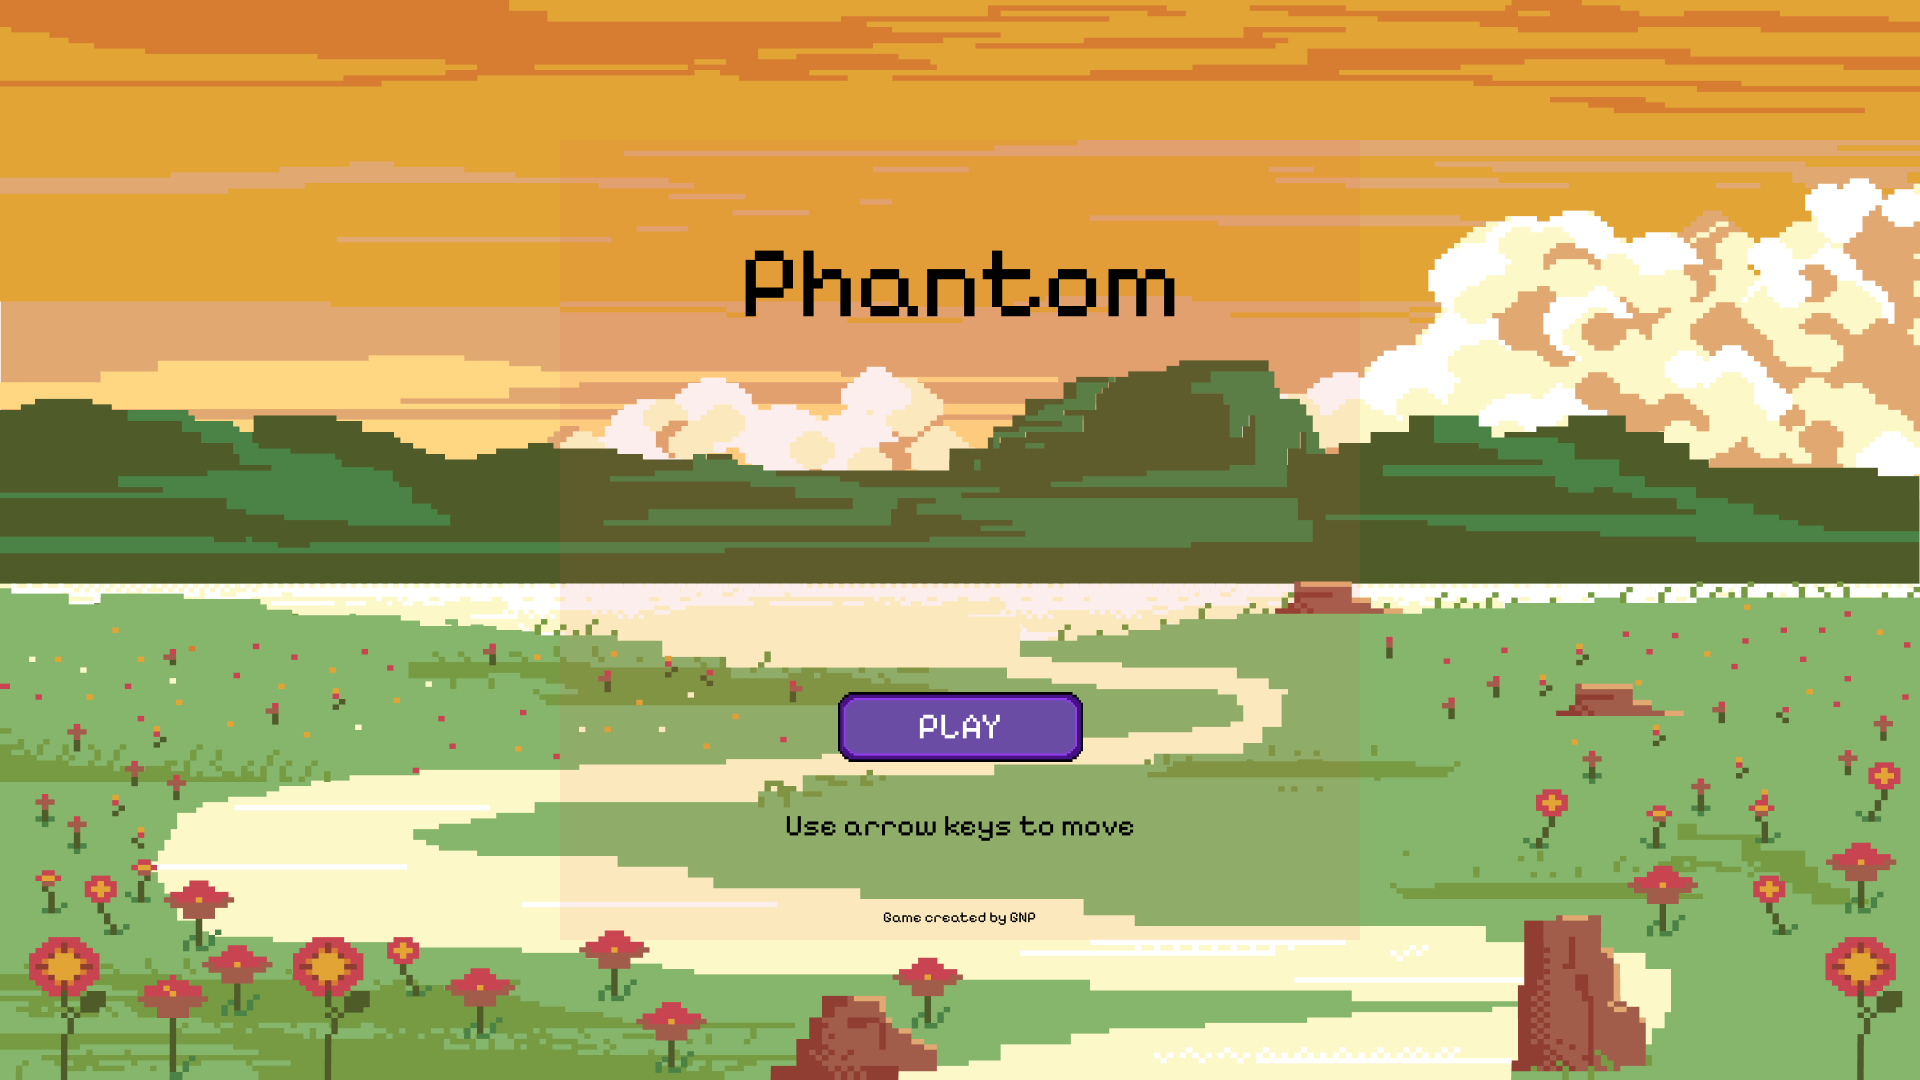
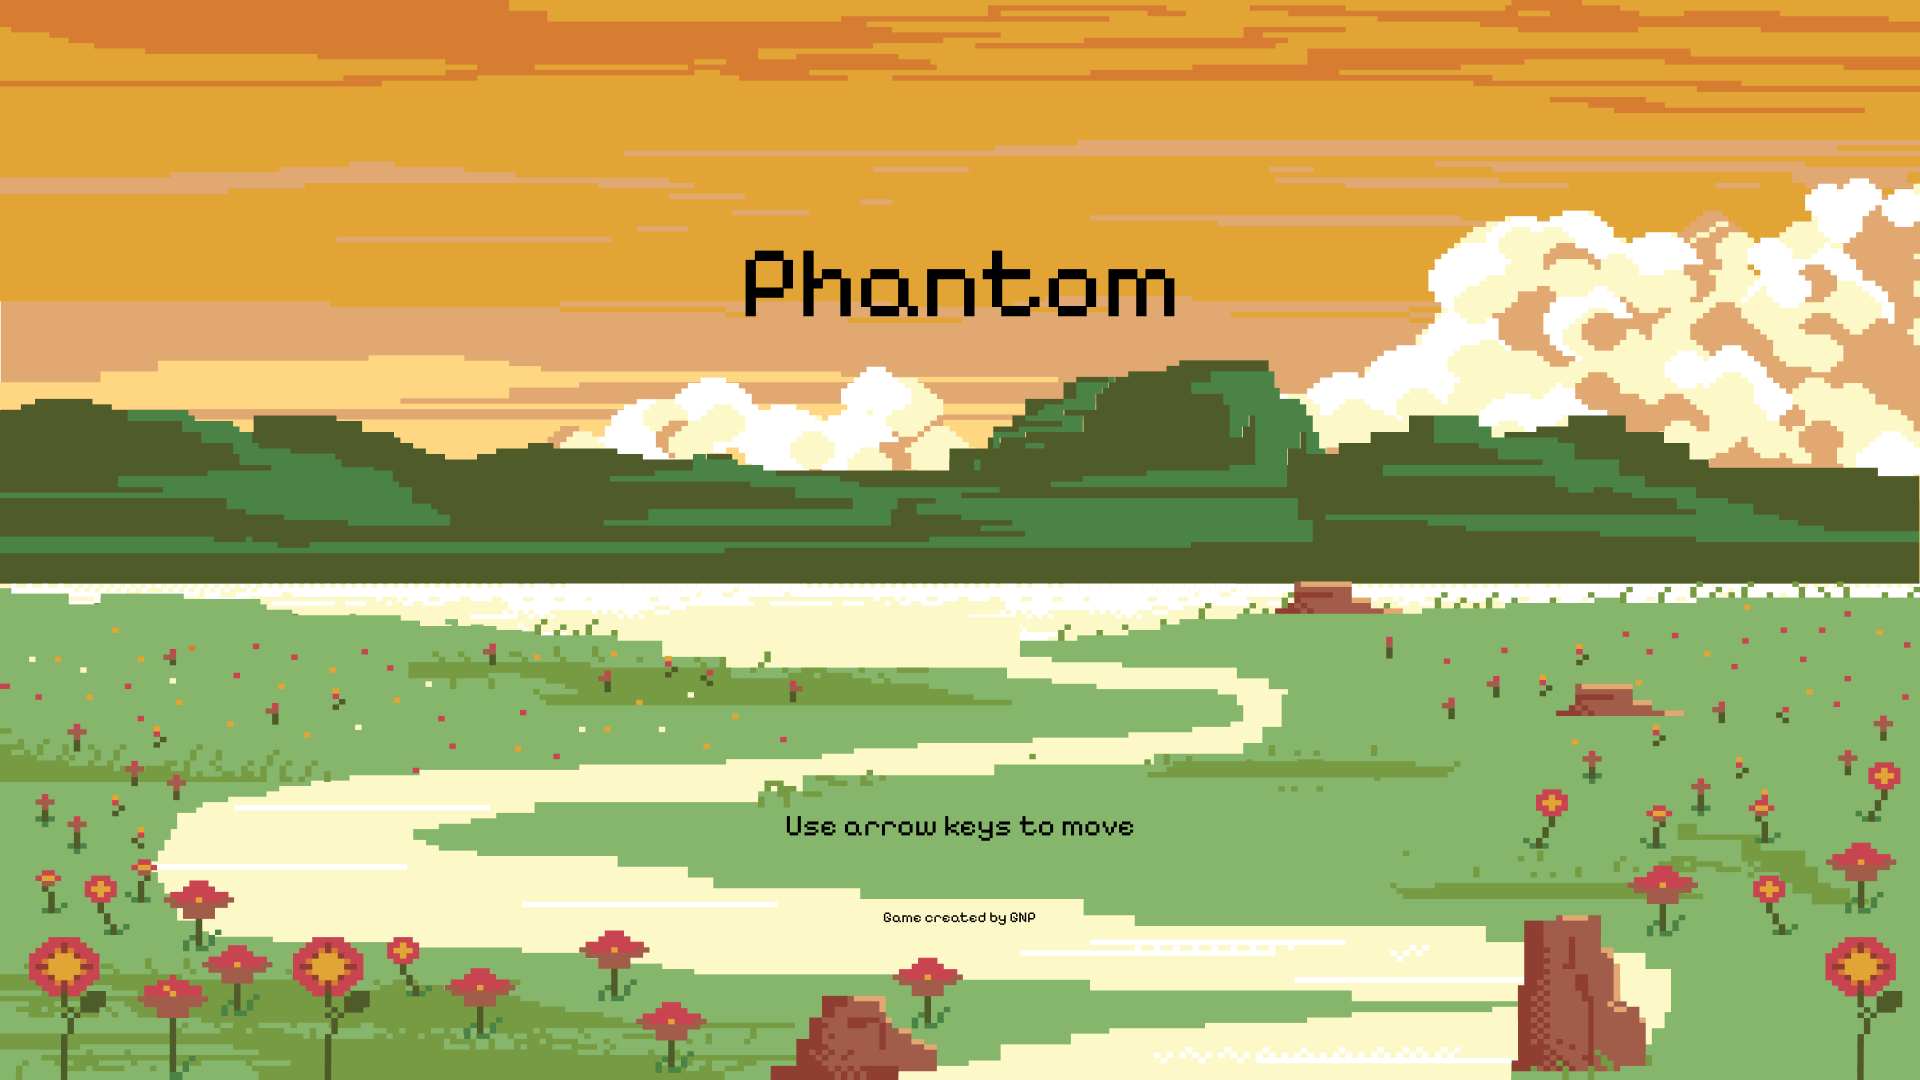
endScene and heart texture for life

Changed region(s): [[0.4375, 0.6417, 0.5625, 0.7028]]

diff --git a/src/scenes/homeScene.cpp b/src/scenes/homeScene.cpp
@@ -5,21 +5,11 @@
 #include "managers/texture.hpp"
 
 GLBI_Texture homeTexture;
-GLBI_Texture buttonTexture;
+GLBI_Texture homeButtonTexture;
 
 StandardMesh homeTile;
-StandardMesh buttonTile;
+StandardMesh homeButtonTile;
 StandardMesh mesh;
-
-void drawOneImage(int &x, int &y, StandardMesh &textureTile)
-{
-    myEngine.setFlatColor(1.0, 1.0, 1.0);
-    myEngine.mvMatrixStack.pushMatrix();
-    myEngine.mvMatrixStack.addTranslation(Vector3D(static_cast<float>(x), static_cast<float>(y), 0.0));
-    myEngine.updateMvMatrix();
-    textureTile.draw();
-    myEngine.mvMatrixStack.popMatrix();
-}
 
 void HomeScene::init()
 {
@@ -27,19 +17,20 @@ void HomeScene::init()
     homeTile = Texturing::createImageMesh(0,0,1920,1080,1920,1080);
     homeTile.createVAO();
 
-    Texturing::initTexture(buttonTexture, "FIRST_SCENE-button", "png");
-    buttonTile = Texturing::createMapTileMesh(0, 0, 245, 245);
-    buttonTile.createVAO();
+    Texturing::initTexture(homeButtonTexture, "FIRST_SCENE-button", "png");
+    homeButtonTile = Texturing::createImageMesh(0,0,245,70,245,70);
+    homeButtonTile.createVAO();
 }
 
 void HomeScene::update()
 {
+
 }
 
-void drawBackground()
-{
+
+void drawBackgroundHome(GLBI_Texture &Texture, StandardMesh &Tile) {
     myEngine.activateTexturing(true);
-    homeTexture.attachTexture();
+    Texture.attachTexture();
 
     myEngine.mvMatrixStack.pushMatrix();
     myEngine.mvMatrixStack.addTranslation(Vector3D(0, 0, 0));
@@ -47,36 +38,36 @@ void drawBackground()
     // engine.mvMatrixStack.addTranslation(Vector3D(2., 6., 0));
     myEngine.setFlatColor(1.0f, 0.0f, 0.0f); // carré rouge
     myEngine.updateMvMatrix();
-    homeTile.draw();
+    Tile.draw();
     myEngine.mvMatrixStack.popMatrix();
 
-    homeTexture.detachTexture();
+    Texture.detachTexture();
     myEngine.activateTexturing(false);
 }
 
-void drawButton()
+void drawButtonHome(GLBI_Texture &Texture, StandardMesh &Tile)
 {
     myEngine.activateTexturing(true);
-    buttonTexture.attachTexture();
+    Texture.attachTexture();
 
     myEngine.mvMatrixStack.pushMatrix();
-    myEngine.mvMatrixStack.addTranslation(Vector3D(0, 0, 0));
-    myEngine.mvMatrixStack.addHomothety(5.0);
+    myEngine.mvMatrixStack.addTranslation(Vector3D(0, -4.5, 0));
+    myEngine.mvMatrixStack.addHomothety(1.5);
     // engine.mvMatrixStack.addTranslation(Vector3D(2., 6., 0));
     myEngine.setFlatColor(1.0f, 0.0f, 0.0f); // carré rouge
     myEngine.updateMvMatrix();
-    buttonTile.draw();
+    Tile.draw();
     myEngine.mvMatrixStack.popMatrix();
 
-    buttonTexture.detachTexture();
+    Texture.detachTexture();
     myEngine.activateTexturing(false);
 }
 
 void HomeScene::draw()
 {
     // myEngine.switchToFlatShading();
-    drawBackground();
-    drawButton();
+    drawBackgroundHome(homeTexture, homeTile);
+    drawButtonHome(homeButtonTexture, homeButtonTile);
 }
 
 void HomeScene::destroy()

diff --git a/src/scenes/draw_game.cpp b/src/scenes/draw_game.cpp
@@ -72,9 +72,6 @@ void drawOneTile(int &x, int &y, StandardMesh &textureTile)
     myEngine.mvMatrixStack.addTranslation(Vector3D(static_cast<float>(x), static_cast<float>(y), 0.0));
     myEngine.updateMvMatrix();
     textureTile.draw();
-    myEngine.mvMatrixStack.addTranslation(Vector3D(static_cast<float>(x), static_cast<float>(y), 0.0));
-    myEngine.updateMvMatrix();
-    textureTile.draw();
     myEngine.mvMatrixStack.popMatrix();
 }
 
@@ -212,7 +209,7 @@ void drawMap()
     textureAtlas.detachTexture();
 }
 
-void drawPlayerLife(const Game &game)
+void drawPlayerLife(const Game &game, int &windowX, int &windowY)
 {
     for (int i{0}; i < game.player->getLife(); i++)
     {
@@ -221,9 +218,16 @@ void drawPlayerLife(const Game &game)
         myEngine.mvMatrixStack.pushMatrix();
         myEngine.updateMvMatrix();
 
-        int x = 0 + i * 20; // Positioning the life tiles at the right side of the screen
-        int y = 0; // Positioning the life tiles at the top of the screen
-        drawOneTile(x, y, lifeTile);
+        float x = static_cast<float>(windowX / 100 + i * 0.5f - 2);
+        float y = static_cast<float>(windowY / 100) - 0.25f;
+
+        myEngine.setFlatColor(1.0, 1.0, 1.0);
+
+        myEngine.mvMatrixStack.pushMatrix();
+        myEngine.mvMatrixStack.addTranslation(Vector3D(x, y, 0.0));
+        myEngine.updateMvMatrix();
+        lifeTile.draw();
+        myEngine.mvMatrixStack.popMatrix();
 
         myEngine.mvMatrixStack.popMatrix();
         myEngine.activateTexturing(false);
@@ -305,23 +309,24 @@ void DrawGame::render(const Game &game)
     }
     game.player->draw(myEngine);
 
-    drawPlayerLife(game);
-
     playerCloseToItem(items());
 
     myEngine.mvMatrixStack.loadIdentity();
+
+    int windowX{0};
+    int windowY{0};
+
+    glfwGetWindowSize(getGame()->window, &windowX, &windowY);
+
+    drawPlayerLife(game, windowX, windowY);
 
     myEngine.setViewMatrix(camera.viewMatrix);
 
     // std::cout << "Camera position: " << camera.position_cam.x << ", " << camera.position_cam.y << ", " << camera.position_cam.z << std::endl;
     // std::cout << "Player position: " << game.player->getPosition().x << ", " << game.player->getPosition().y << std::endl;
-    int windowX{0};
-    int windowY{0};
 
     int playerX = static_cast<int>(game.player->getPosition().x) + MAP_WIDTH / 2;
     int playerY = static_cast<int>(game.player->getPosition().y) + MAP_HEIGHT / 2;
-
-    glfwGetWindowSize(getGame()->window, &windowX, &windowY);
 
     // int halfView = GL_VIEW_SIZE / 2;
     float aspectRatio = static_cast<float>(windowX) / static_cast<float>(windowY);

diff --git a/src/scenes/endScene.cpp b/src/scenes/endScene.cpp
@@ -2,20 +2,71 @@
 #include "managers/gameManager.hpp"
 #include "managers/menu.hpp"
 #include "map/pathfinding.hpp"
+#include "managers/texture.hpp"
+
+GLBI_Texture endTexture;
+GLBI_Texture endButtonTexture;
+
+StandardMesh endTile;
+StandardMesh endButtonTile;
 
 void EndScene::init()
 {
+    Texturing::initTexture(endTexture, "END_SCENE_RECT", "png");
+    endTile = Texturing::createImageMesh(0,0,1920,1080,1920,1080);
+    endTile.createVAO();
+
+    Texturing::initTexture(endButtonTexture, "END_SCENE-button", "png");
+    endButtonTile = Texturing::createImageMesh(0,0,245,70,245,70);
+    endButtonTile.createVAO();
 }
 
 void EndScene::update()
 {
+}
 
+void drawBackgroundEnd(GLBI_Texture &Texture, StandardMesh &Tile) {
+    myEngine.activateTexturing(true);
+    Texture.attachTexture();
+
+    myEngine.mvMatrixStack.pushMatrix();
+    myEngine.mvMatrixStack.addTranslation(Vector3D(0, 0, 0));
+    myEngine.mvMatrixStack.addHomothety(25.0);
+    // engine.mvMatrixStack.addTranslation(Vector3D(2., 6., 0));
+    myEngine.setFlatColor(1.0f, 0.0f, 0.0f); // carré rouge
+    myEngine.updateMvMatrix();
+    Tile.draw();
+    myEngine.mvMatrixStack.popMatrix();
+
+    Texture.detachTexture();
+    myEngine.activateTexturing(false);
+}
+
+void drawButtonEnd(GLBI_Texture &Texture, StandardMesh &Tile)
+{
+    myEngine.activateTexturing(true);
+    Texture.attachTexture();
+
+    myEngine.mvMatrixStack.pushMatrix();
+    myEngine.mvMatrixStack.addTranslation(Vector3D(0, -6, 0));
+    myEngine.mvMatrixStack.addHomothety(1.5);
+    // engine.mvMatrixStack.addTranslation(Vector3D(2., 6., 0));
+    myEngine.setFlatColor(1.0f, 0.0f, 0.0f); // carré rouge
+    myEngine.updateMvMatrix();
+    Tile.draw();
+    myEngine.mvMatrixStack.popMatrix();
+
+    Texture.detachTexture();
+    myEngine.activateTexturing(false);
 }
 
 void EndScene::draw()
 {
-   
+    // myEngine.switchToFlatShading();
+    drawBackgroundEnd(endTexture, endTile);
+    drawButtonEnd(endButtonTexture, endButtonTile);
 }
+
 void EndScene::destroy()
 {
     // glDeleteTextures

diff --git a/src/managers/gameManager.cpp b/src/managers/gameManager.cpp
@@ -13,6 +13,7 @@
 #include "time.hpp"
 #include "scenes/gameScene.hpp"
 #include "scenes/homeScene.hpp"
+#include "scenes/endScene.hpp"
 #include "managers/gameManager.hpp"
 #include "managers/text.hpp"
 #include "characters/villain.hpp"
